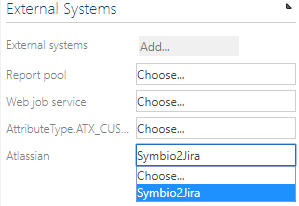
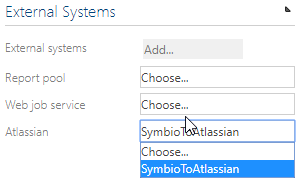
Chages for PBI/14006 JiraInterfaceEnhancements

diff --git a/docs/admin/services/atlassian-connector/administration_guide.md b/docs/admin/services/atlassian-connector/administration_guide.md
@@ -1,0 +1,100 @@
+# Symbio to Atlassian micro service configuration
+
+The service is currently made available as a stand alone service on Azure. It uses an Azure repository for the configuration.
+
+## Configuration
+### Add the External System to the Symbio Repository
+1. Please ask your Ploetz and Zeller representative for the latest SYEX configuration file
+1. Log on to the \_sysadmin/_admin section of Symbio (Requires System Administration access)
+1. Switch to "Editor" mode
+1. Go to the Admin area ![admin](media/admin.png)
+1. Go to the "Extended configuration" ![extended configuration](media/extendedcfg.png)
+1. Select "New" and add a type for an external system named "Atlassian"
+1. Set the following attributes
+   1. **Name:** Atlassian
+   1. **Description:** Symbio to Jira configuration items required for the integration
+1. Upload the SYEX file under the settings group with the Title: "Atlassian" ![Select Add](media/addsyex1.png) -> ![Upload](media/addsyex2.png)
+1. Make the external configuration active ![activate](media/addsyex3.png)
+1. Apply changes ![activate](media/apply.png)
+1. Select "External systems" on the top menu bar
+1. Add a new external system with "Type" of "Atlassian" ![activate](media/extSysConfig1.png)
+   1. Name the External System "SymbioToJira"
+1. Add the values that is relevant for your Jira instance
+   1. ![activate](media/extSysConfig2.png)
+   1. You can choose to add additional configuration to the external system in the settings box in JSON format. Here you can "map" the Symbio stereotypes for your requirements to the equivalent issue types in Jira, as well as the attributes you wish to map between the two systems. Example:
+    ```json
+        {"ObjectTypes":[
+            {   "Active": true,
+                "SymbioStereoType": "Epic",
+                "JiraIssueType": "Epic",
+                "toJira": true,
+                "toSymbio": true
+            },
+            {   "Active": true,
+                "SymbioStereoType": "userStory",
+                "JiraIssueType": "Story",
+                "toJira": true,
+                "toSymbio": true
+            }],
+        "Attributes": [
+            {   "Active": true,
+                "SymbioAttrType": "name",
+                "JiraAttrType": "summary",
+                "toJira": true,
+                "toSymbio": true
+            },
+            {   "Active": true,
+                "SymbioAttrType": "description",
+                "JiraAttrType": "description",
+                "toJira": true,
+                "toSymbio": true
+            }]
+        }
+    ```
+1. The default conversion settings are the following:
+Object Types:
+| Symbio requirement stereotype 	| Jira issue type 	|
+|-------------------------------	|-----------------	|
+| Epic                          	| Epic            	|
+| User Story                    	| Story           	|
+| Feature                       	| Epic            	|
+| PBI                           	| Story           	|
+
+Attributes:
+| Symbio attribute 	    | Jira attribute 	|
+|------------------	    |----------------	|
+| Name                  | Summary           |
+| Description           | Description       |
+| Custom Jira Status    | status            |
+
+   *Please note that the system requires an admin user type on the Jira and Symbio systems for the interface to function correctly*
+
+### Load the external system on the storage
+1. Go Home -> Select the Storage Collection or create a new one
+1. Go to Admin -> Apply new configuration
+1. Select "Storages" on the top menu ![choose storage](media/storages.png)
+1. Choose an existing storage or create a new one
+1. Under the external systems group, select the configured external system under the "Atlassian" external systems ![choose external system](media/ExtSys_Choose.png)
+
+### Result after adding the external system
+- Adding the external system to your repository will result in the following
+    - All the required attributes will be added to Symbio
+    - The webhooks for both systems will be created
+    - The selection service for the Jira projects will be loaded
+
+## Remove the external system from the repository
+
+WARNING: You can remove the external system from the repository, but it may have an impact on connected domains. Please disconnect all domains before removing the external system from the repository.
+
+### Remove the external system from the repository
+
+1. Log on to the _sysadmin/_admin area of your Symbio instance
+1. Select Storage Collection and select "Storages" to view the list of storages in the Storage Collection
+1. Select the storage where the external system is loaded
+1. Click on the selected external system and set the drop-down to "Choose" ![choose external system](media/ExtSys_Choose.png)
+1. Note: you can also choose to delete the repository, when doing so it will also remove all the configurations
+
+### Removal result
+
+1. If you remove the external system, the service will check remove the Symbio and Jira Webhooks and other configuration items from the respective systems. It will ONLY do so if there are no other configuration that is using the same instances.
+1. You will no longer be able to connect Symbio to Jira.

diff --git a/docs/admin/services/atlassian-connector/using_symbioatlassian.md b/docs/admin/services/atlassian-connector/using_symbioatlassian.md
@@ -6,7 +6,7 @@
 - The configured external system must be loaded on the repository where the system will be used
 
 If all the configuration items listed above is complete, you will be able to complete the steps below to link Symbio to Jira and start using the interface. 
-See [Installation guide](installation_guide.md) for more details
+See [Administration guide](administration_guide.md) for more details
 
 ## Linking a requirement domain to the Jira project
 You must link a domain in the requirements facet to a Jira project for the integration to work. You can also link the Requirement domain to a project on Symbio.
@@ -15,15 +15,31 @@ Only connect **one** Jira Project to **one** domain! Connecting the same Jira pr
 1. Go to the Requirements facet and create or select a domain
 1. Select the Project from the list under the Jira Connection group on the details panel ![Jira Project Selection](media/connectJiraProject.png)
 
-At this point, all of the requirements belonging to the domain with the "Send to Jira" attribute checked, and it's sub-domains will be synchronized with the Jira project. The synchronization will also sync all of the Issues(Requirements) in Jira to the selected domain.
+At this point, all of the requirements in the Jira project will be synchronized into the domain. The Symbio requirements will only be sent after the "Send to Jira" check-box have been activated.
 
 ## Creating requirements in Symbio and sending the requirement to Jira
 1. The recommended way to create requirements is for you to create the requirement under the correct domain linked to the project first. This will ensure that the requirement is synchronized with the correct Jira project.
 1. Check the "Send to Jira" check-box to trigger the synchronization of the new requirement to the Jira project. This happens in the background and no further action is required.
-1. Activating the "Send to Jira" check-box, will make the requirement read-only. Changes are only allowed on Jira hence forth.
+1. Activating the "Send to Jira" check-box, will make the requirement read-only. ![Jira Project Selection](media/JiraConnectionAttributes.png)
+
+*Changes are only allowed on Jira from that point on.*
 
 ## Creating Jira Issues and sending them to Symbio
-1. Creating an issue (requirement) on Jira will automatically send the requirement to the applicable domain in Symbio.
+1. Creating an issue (requirement) on Jira will automatically send the requirement to the connected domain in Symbio.
 
-## Updating a requirement
-1. Updating an issue on Jira will automatically update the requirement on Symbio
+## Updating a requirement on Jira
+1. Updating an issue on Jira will automatically update the requirement on Symbio.
+ 
+*Updates are only possible on Jira at this point*
+
+## Deleting a requirement on Jira
+1. Deleting a requirement in Jira, will update the requirement in Symbio to reflect the status of "Requirement deleted on Jira".
+1. The requirement will be made editable again in Symbio. This will allow you to assess the impact or allow you to make updates on your processes.
+1. The requirement will also refer to the project the issue was deleted from.
+![Jira Project Selection](media/DeletedOnJira.png)
+
+Requirements will not be deleted in Symbio automatically.
+
+## Moving an issue between projects on Jira
+1. When moving a requirement on Jira, the changes will be reflected on Symbio. 
+1. Exceptions: When moving an issue to a project that is not connected to Symbio, a new domain will be created in Symbio called "Unknown Jira PRoject" and the requirement will be placed in this domain with it's new Jira ID for reference.
